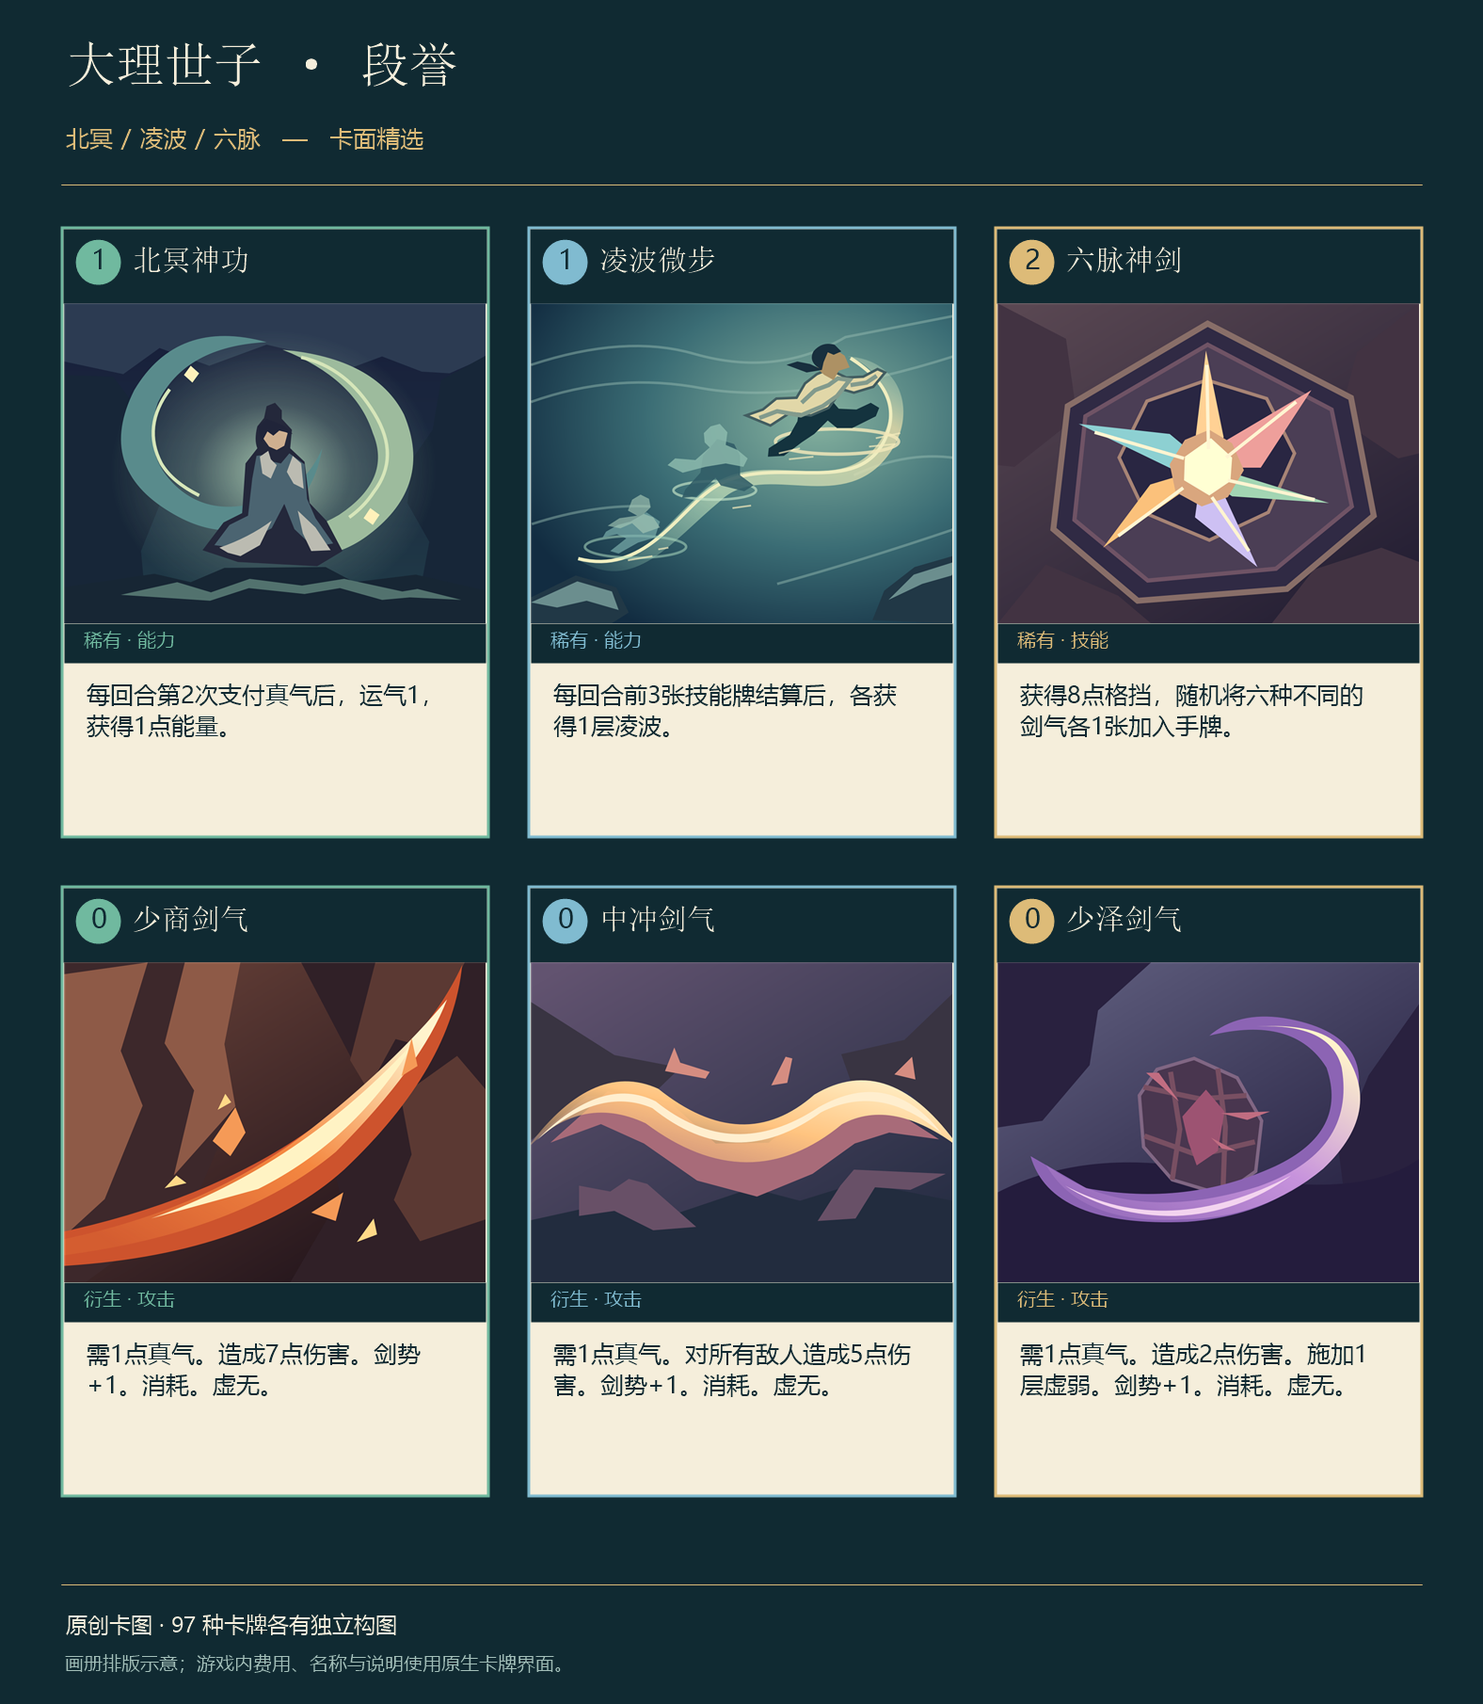
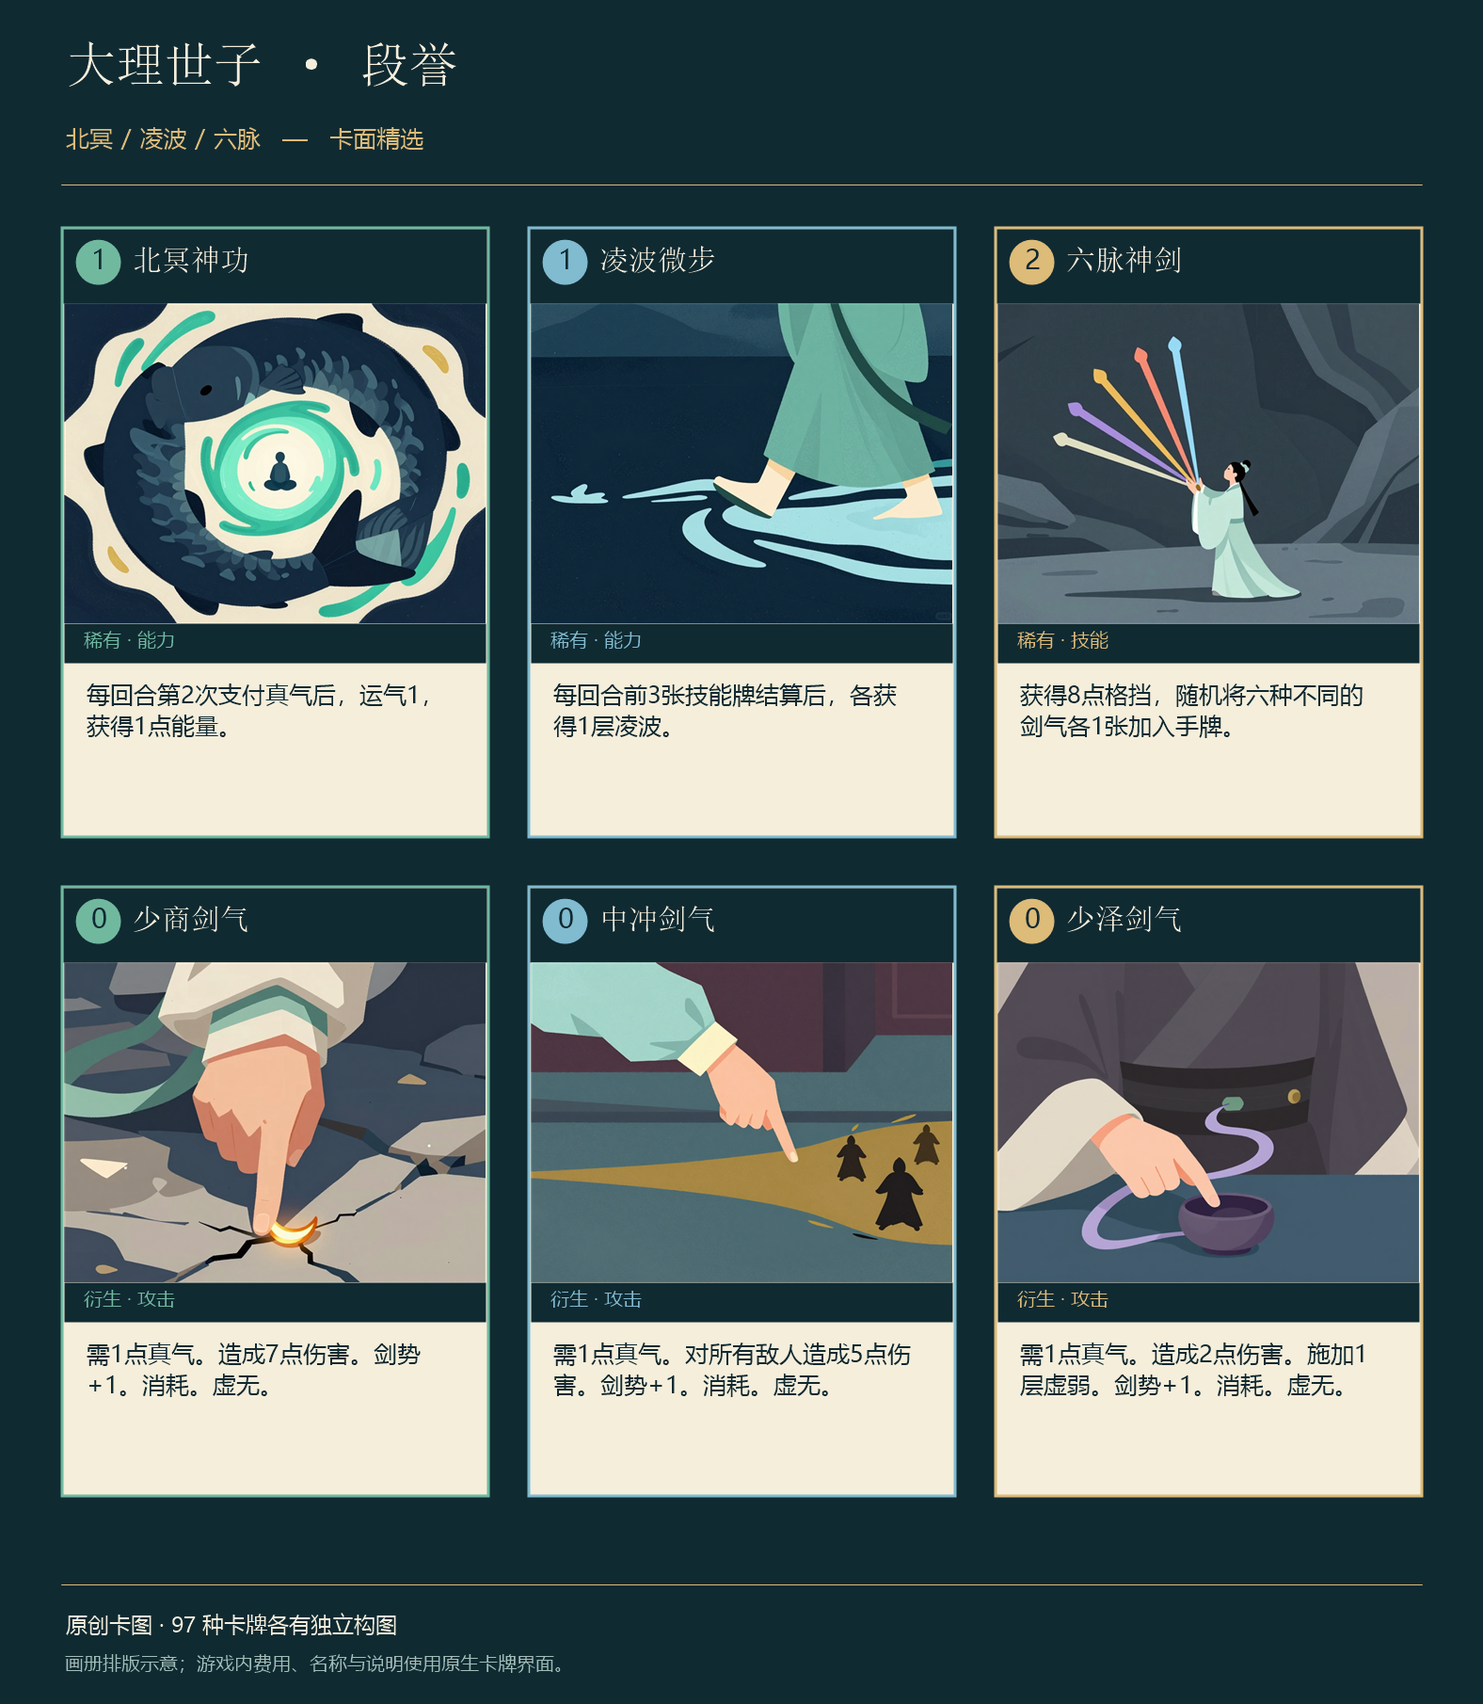
Redraw Duan Yu cards and cover in v0.5.32

Changed region(s): [[0.0311, 0.5569, 0.9638, 0.7735], [0.0311, 0.1547, 0.9638, 0.3713]]

diff --git a/src/DuanYu/Assets/DuanYuAssets.cs b/src/DuanYu/Assets/DuanYuAssets.cs
@@ -11,6 +11,7 @@ public static class DuanYuAssets
     private const string CacheRoot = "user://cqbzly.duanyu/assets-v2";
     private static readonly object AssetLock = new();
     private static readonly Dictionary<string, string> Paths = new(StringComparer.Ordinal);
+    private static readonly Dictionary<string, string> CardPaths = new(StringComparer.Ordinal);
     private static bool _initialized;
 
     public static string CharacterTexture => ImagePath("character", DuanYuArt.Character());
@@ -55,7 +56,34 @@ public static class DuanYuAssets
         }
     }
 
-    public static string CardPortrait(string designId) => ImagePath("card-" + SafeKey(designId), DuanYuArt.Card(designId));
+    public static string CardPortrait(string designId)
+    {
+        lock (AssetLock)
+        {
+            if (CardPaths.TryGetValue(designId, out string? path)) return path;
+
+            string key = "card-" + SafeKey(designId);
+            using Stream? portrait = OpenEmbeddedCardPortrait(designId);
+            if (portrait is null)
+            {
+                path = ImagePath(key, DuanYuArt.Card(designId));
+            }
+            else
+            {
+                using var buffer = new MemoryStream();
+                portrait.CopyTo(buffer);
+                byte[] png = buffer.ToArray();
+                path = ImagePath(key, png, image => image.LoadPngFromBuffer(png));
+            }
+
+            CardPaths[designId] = path;
+            return path;
+        }
+    }
+
+    internal static Stream? OpenEmbeddedCardPortrait(string designId) =>
+        typeof(DuanYuAssets).Assembly.GetManifestResourceStream($"DuanYu.CardPortraits.{designId}.png");
+
     public static string PowerIcon(string key) => ImagePath("power-" + SafeKey(key), DuanYuArt.Symbol(key, 128));
     public static string RelicIcon(string key) => ImagePath("relic-" + SafeKey(key), DuanYuArt.Symbol(key, 128));
     public static string EventPortrait(string key) => ImagePath("event-" + SafeKey(key), DuanYuArt.Event(key));
@@ -63,9 +91,12 @@ public static class DuanYuAssets
     public static Texture2D Texture(string path) => ResourceLoader.Load<CompressedTexture2D>(path)
         ?? throw new InvalidOperationException($"Duan Yu texture did not load: {path}");
 
-    private static string ImagePath(string key, string svg)
+    private static string ImagePath(string key, string svg) =>
+        ImagePath(key, Encoding.UTF8.GetBytes(svg), image => image.LoadSvgFromString(svg));
+
+    private static string ImagePath(string key, byte[] content, Func<Image, Error> loadImage)
     {
-        string digest = Convert.ToHexString(SHA256.HashData(Encoding.UTF8.GetBytes(svg)))[..12].ToLowerInvariant();
+        string digest = Convert.ToHexString(SHA256.HashData(content))[..12].ToLowerInvariant();
         string filename = key + "-" + digest + ".ctex";
         lock (AssetLock)
         {
@@ -76,7 +107,7 @@ public static class DuanYuAssets
             if (!File.Exists(absolutePath))
             {
                 using var image = new Image();
-                Error result = image.LoadSvgFromString(svg);
+                Error result = loadImage(image);
                 if (result != Error.Ok) throw new InvalidOperationException($"Unable to render {key}: {result}");
                 image.Convert(Image.Format.Rgba8);
                 WriteCompressedTexture(absolutePath, image);

diff --git a/tests/AssetSmoke/ExportGallery.cs b/tests/AssetSmoke/ExportGallery.cs
@@ -15,22 +15,43 @@ internal static class ExportGallery
         var outputDirectory = Path.GetFullPath(arguments[flagIndex + 1]);
         Directory.CreateDirectory(outputDirectory);
         var portraits = new HashSet<string>(StringComparer.Ordinal);
+        int embeddedCount = 0;
         foreach (var (prefix, count) in new[] { ("B", 5), ("C", 23), ("U", 38), ("R", 22), ("A", 1), ("T", 6), ("S", 2) })
         {
             for (var number = 1; number <= count; number++)
             {
                 var designId = $"DY_{prefix}{number:00}";
-                var source = DuanYuArt.Card(designId);
-                var digest = Convert.ToHexString(SHA256.HashData(Encoding.UTF8.GetBytes(source)));
-                if (!portraits.Add(digest)) throw new InvalidOperationException("Duplicate card artwork: " + designId);
-                File.WriteAllText(Path.Combine(outputDirectory, designId + ".svg"), source, new UTF8Encoding(false));
                 using var image = DuanYuAssets.Texture(DuanYuAssets.CardPortrait(designId)).GetImage();
                 if (image.GetWidth() != 1000 || image.GetHeight() != 760)
                     throw new InvalidOperationException("Incorrect card portrait dimensions: " + designId);
+                byte[] pixels = image.GetData();
+                if (!portraits.Add(Convert.ToHexString(SHA256.HashData(pixels))))
+                    throw new InvalidOperationException("Duplicate card artwork: " + designId);
+
+                string svgPath = Path.Combine(outputDirectory, designId + ".svg");
+                using Stream? embedded = DuanYuAssets.OpenEmbeddedCardPortrait(designId);
+                if (embedded is null)
+                {
+                    File.WriteAllText(svgPath, DuanYuArt.Card(designId), new UTF8Encoding(false));
+                }
+                else
+                {
+                    using var buffer = new MemoryStream();
+                    embedded.CopyTo(buffer);
+                    using var source = new Image();
+                    if (source.LoadPngFromBuffer(buffer.ToArray()) != Error.Ok)
+                        throw new InvalidOperationException("Invalid embedded card portrait: " + designId);
+                    source.Convert(Image.Format.Rgba8);
+                    if (!pixels.AsSpan().SequenceEqual(source.GetData()))
+                        throw new InvalidOperationException("Loaded texture differs from embedded portrait: " + designId);
+                    File.Delete(svgPath);
+                    embeddedCount++;
+                }
+
                 if (image.SavePng(Path.Combine(outputDirectory, designId + ".png")) != Error.Ok)
                     throw new IOException("Could not export card artwork: " + designId);
             }
         }
-        GD.Print($"ART_EXPORT_OK: {portraits.Count} distinct portraits exported to {outputDirectory}");
+        GD.Print($"ART_EXPORT_OK: {portraits.Count} distinct portraits ({embeddedCount} embedded PNG) exported to {outputDirectory}");
     }
 }

diff --git a/docs/card-art.md b/docs/card-art.md
@@ -1,24 +1,24 @@
 # 段誉卡面设计
 
-v0.5.30 重画 96 张卡图，先古牌「六脉真传」使用古碑插画。卡图为 1000 × 760 像素，使用 500 × 380 设计坐标。游戏运行时将内置 SVG 绘制成缓存纹理。
+段誉的卡图参考《杀戮尖塔 2》的手牌可读性，以旧版段誉卡面的墨青底色、平涂色面和硬边阴影为画风参考。每张插画突出一个动作或物件，将发力点放在画面中下部，避开游戏标题带。
 
 ## 视觉规则
 
-- 少商剑气劈岩，商阳剑气破甲，中冲剑气扫过整片场地，关冲剑气折面挡矢。
-- 凌波初步从靴尖点水起势，掠影步穿过竹林，倒踩七星沿屋脊留下落点。
-- 逆脉强攻用逆行裂电表现强攻的代价，内力震荡则让护甲从内部炸开。
+- 青衫、宽袖和束发保留书生轮廓。指劲、衣袖和水纹承担动作表现。
+- 少商剑气用火色弧光劈岩，商阳剑气用细束击中圆靶，中冲剑气以横向光浪表现群攻，关冲剑气以翠绿菱形气劲挡矢。
+- 凌波牌用足尖、落点和衣摆表现步法。北冥牌通过回流、凝聚和向外迸发的气流表现不同效果。
 
-每种卡牌都有独立构图，升级版沿用该牌插画。插画由 `src/DuanYu/Assets/DuanYuCardArt.cs` 按卡牌编号加载。
+每种卡牌都有独立构图，升级版沿用同一张插画。Z-Image Turbo 根据逐张撰写的构图描述和旧版「凌波初步」卡面的风格参考生成插画。选图和裁切后的 1000 × 760 像素 PNG 保存在 `assets/card-portraits/`，随 DLL 一同加载。缺少对应 PNG 时，游戏读取 `src/DuanYu/Assets/DuanYuCardArt.cs` 中的 SVG。
 
 ## 导出与验证
 
 ```powershell
-.\scripts\test-assets.ps1 -ExportArtPath artifacts/card-art
-.\scripts\render-promo.ps1
+.\scripts\test-assets.ps1 -GodotPath 'D:\tools\godot\Godot_v4.5.1-stable_mono_win64_console.exe' -ExportArtPath 'D:\duanyu-card-export'
+.\scripts\render-promo.ps1 -ArtPath 'D:\duanyu-card-export'
 ```
 
-第一条命令加载纹理和场景，并导出 PNG 与 SVG，验证尺寸及源图唯一性。第二条命令使用导出的游戏卡图生成精选画册 `assets/card-gallery.png`，并检查文字区域溢出。
+将 `-GodotPath` 指向本机的 Godot 4.5.1 .NET 控制台程序。第一条命令加载纹理和场景，验证实际卡图的尺寸、像素是否重复以及内嵌 PNG 与游戏纹理是否一致。所有卡图都会导出为 PNG，使用 SVG 的卡图还会导出源图。第二条命令使用同一目录下的游戏卡图生成精选画册 `assets/card-gallery.png`，并检查文字区域溢出。
 
 ![卡面精选](../assets/card-gallery.png)
 
-画册使用项目绘制的游戏卡图和宣传卡框，游戏内使用原生卡框。README 横幅和工坊方形封面取景自南宋马麟的《Landscape with Flying Geese》，采用书法题字和朱印排版。两张封面独立维护。[原作与 CC0 授权](https://www.clevelandart.org/art/1952.285)
+画册使用游戏卡图和宣传卡框，游戏内使用原生卡框。README 横幅和工坊方形封面以段誉的青衫背影为主体，使用同一模型图生图，分别排版。

diff --git a/docs/installation.md b/docs/installation.md
@@ -1,6 +1,6 @@
 # 段誉模组安装说明
 
-当前版本为 v0.5.31。目标环境为 Windows《杀戮尖塔2》v0.113.1 public-beta，依赖 BaseLib 3.4.8。[GitHub Releases](https://github.com/cqbzly/sts2-duan-yu/releases/latest) · [卡牌图鉴](cards.md)
+当前版本为 v0.5.32。目标环境为 Windows《杀戮尖塔2》v0.113.1 public-beta，依赖 BaseLib 3.4.8。[GitHub Releases](https://github.com/cqbzly/sts2-duan-yu/releases/latest) · [卡牌图鉴](cards.md)
 
 ## 玩家安装
 
@@ -8,7 +8,7 @@
 2. 订阅[大理世子·段誉](https://steamcommunity.com/sharedfiles/filedetails/?id=3841781260)。手动安装时，关闭游戏，从 [Release](https://github.com/cqbzly/sts2-duan-yu/releases/latest) 下载 ZIP，将其中的 `DuanYu` 文件夹解压到游戏的 `mods` 目录。该文件夹应直接包含 `CQBZLY_DUAN_YU.dll` 和 `DuanYu.json`。
 3. 启动游戏，在模组列表中启用“大理世子·段誉”，按提示重启，再新开一局选择段誉。
 
-玩家不需要单独安装 .NET SDK 或 Godot 编辑器。图片、图标与场景由DLL在本机生成，缓存在游戏用户目录 `cqbzly.duanyu` 下；不会从互联网下载图片。
+玩家可直接使用打包好的模组。卡图随 DLL 提供，游戏在本机加载卡图、图标和场景，并将资源缓存在游戏用户目录 `cqbzly.duanyu` 下。
 
 多人游戏的所有参加者需要相同游戏分支、相同版本的段誉与依赖，以及一致的影响玩法的模组列表。玩家状态隔离已实现，但完整远程多人会话尚需验证。
 
@@ -39,9 +39,9 @@
 - 本机历史记录中 SavesMerger 有独立于本模组的初始化异常。遇到加载错误时，先只启用 BaseLib、Compatibility Helper、段誉进行比较。
 - 日志通常位于 `%APPDATA%\SlayTheSpire2\logs\godot.log`。报告问题时提供游戏版本、段誉版本、模组列表、复现操作和相关错误片段。
 
-## v0.5.31 发布记录
+## v0.5.32 发布记录
 
-本版调整步法、状态联动、回合开始收益和多人支援牌。[完整更新记录](releases/v0.5.31.md)
+本版重绘 97 张卡牌插画，封面换为段誉的青衫背影。[完整更新记录](releases/v0.5.32.md)
 
 尘封魔典授予段誉专属先古牌「六脉真传+」。已领取空魔典的旧局，更新并继续游戏时补发一次。订阅玩家退出游戏，等 Steam 完成下载后重新启动即可。
 

diff --git a/README.md b/README.md
@@ -1,10 +1,10 @@
 # 大理世子 · 段誉
 
-![大理世子·段誉水墨封面，取景自南宋马麟的山水画](assets/duanyu-ink-banner.png)
+![段誉身穿青衫，背对观者望向湖山](assets/duanyu-ink-banner.png)
 
 《杀戮尖塔2》的段誉同人角色模组。攒真气蓄势，以凌波卸去连击，再用六脉剑气打开局面。包含 **97 种卡牌、9 件遗物和 2 个专属事件**。
 
-**公开发行版 v0.5.31** · 《杀戮尖塔2》v0.113.1 public-beta · BaseLib 3.4.8
+**公开发行版 v0.5.32** · 《杀戮尖塔2》v0.113.1 public-beta · BaseLib 3.4.8
 
 [Steam 创意工坊](https://steamcommunity.com/sharedfiles/filedetails/?id=3841781260) · [GitHub 下载](https://github.com/cqbzly/sts2-duan-yu/releases/latest) · [安装说明](docs/installation.md)
 
@@ -23,7 +23,7 @@
 
 ## 版本
 
-重做踏虚而行、游身、以退为进与蓄势一击。读书明理用气滞换零费抽牌，真气护体按当前真气提供格挡，守拙在回合开始运气2。[v0.5.31 更新记录](docs/releases/v0.5.31.md)
+全套 97 张卡面重绘。GitHub 横幅和工坊封面换为段誉的青衫背影。[v0.5.32 更新记录](docs/releases/v0.5.32.md)
 
 ## 从源码构建
 
@@ -40,4 +40,4 @@
 
 ## 作品来源
 
-角色与武学源于金庸《天龙八部》。本项目是玩家制作的同人模组。游戏内卡面为项目原创程序化美术，封面取景自南宋马麟的《Landscape with Flying Geese》，由克利夫兰艺术博物馆按 CC0 开放。[卡面精选](docs/card-art.md) · [封面原作与授权](https://www.clevelandart.org/art/1952.285)
+角色与武学源于金庸《天龙八部》。本项目是玩家制作的同人模组。游戏卡图以 Z-Image Turbo 生成并逐张选图和裁切，封面取景自南宋马麟的《Landscape with Flying Geese》，由克利夫兰艺术博物馆按 CC0 开放。[卡面精选](docs/card-art.md) · [封面原作与授权](https://www.clevelandart.org/art/1952.285)

diff --git a/docs/cheat-sheet.md b/docs/cheat-sheet.md
@@ -1,6 +1,6 @@
 # 段誉 · A10 实战小抄
 
-本文对应 v0.5.31。初始牌组有 4 张打击、4 张防御、北冥初窥与无意一指。真气无上限，跨回合保留，打牌前须付足真气。每张剑气通常需 1 点真气，经脉归一生成的剑气免费。六脉齐发用尽真气，每花 1 点就对同一目标造成一段 6/8 点伤害，各段独立应用增伤。每层凌波使每段可格挡伤害减 1，层数到自己的下回合开始时清除。风过无痕每新增 1 层凌波提供 5/7 格挡。剑势上限为 8，每回合开始清零。头环开战运气 5，自己的每个回合结束时运气 1。[卡牌图鉴](cards.md) · [v0.5.31 更新记录](releases/v0.5.31.md)
+本文对应 v0.5.32。初始牌组有 4 张打击、4 张防御、北冥初窥与无意一指。真气无上限，跨回合保留，打牌前须付足真气。每张剑气通常需 1 点真气，经脉归一生成的剑气免费。六脉齐发用尽真气，每花 1 点就对同一目标造成一段 6/8 点伤害，各段独立应用增伤。每层凌波使每段可格挡伤害减 1，层数到自己的下回合开始时清除。风过无痕每新增 1 层凌波提供 5/7 格挡。剑势上限为 8，每回合开始清零。头环开战运气 5，自己的每个回合结束时运气 1。[卡牌图鉴](cards.md) · [v0.5.32 更新记录](releases/v0.5.32.md)
 
 奥罗巴斯的升级初始遗物选项现在将玉佩换成段誉专属头环，不会换成原版无效果头环。升级后每场战斗开局5气，每个自己的回合结束补1气，超过9气仍正常获得。
 

diff --git a/docs/builds-and-balance.md b/docs/builds-and-balance.md
@@ -1,6 +1,6 @@
 # 段誉：构筑指南与平衡验证
 
-版本 v0.5.31。常规奖励池共83张，普通23张、罕见38张、稀有22张。另有5张基础、1张先古、6张衍生和2张状态牌。本页的 A10 通关示例来自旧版本单个种子。[卡牌图鉴](cards.md) · [A10 实战小抄](cheat-sheet.md)
+版本 v0.5.32。常规奖励池共83张，普通23张、罕见38张、稀有22张。另有5张基础、1张先古、6张衍生和2张状态牌。本页的 A10 通关示例来自旧版本单个种子。[卡牌图鉴](cards.md) · [A10 实战小抄](cheat-sheet.md)
 
 ## 基础循环
 

diff --git a/docs/mechanics.md b/docs/mechanics.md
@@ -1,6 +1,6 @@
 # 段誉：核心机制与结算规范
 
-本文对应 v0.5.31。[卡牌图鉴](cards.md) · [实战小抄](cheat-sheet.md) · [GitHub Releases](https://github.com/cqbzly/sts2-duan-yu/releases/latest)
+本文对应 v0.5.32。[卡牌图鉴](cards.md) · [实战小抄](cheat-sheet.md) · [GitHub Releases](https://github.com/cqbzly/sts2-duan-yu/releases/latest)
 
 卡面正文省略“需N点真气”前缀，由专属费用标记与真气悬浮说明显示费用；data与文档图鉴保留完整规则。显示精简不改变整张牌出牌前足额支付的要求。
 

diff --git a/docs/cards.md b/docs/cards.md
@@ -1,6 +1,6 @@
 # 大理世子·段誉 · 完整卡牌图鉴
 
-设计版本：0.5.31。共 97 种卡牌，其中 83 种进入角色常规卡池。
+设计版本：0.5.32。共 97 种卡牌，其中 83 种进入角色常规卡池。
 
 本文由 [data/cards.json](../data/cards.json) 自动生成。修改数据后运行 `node scripts/build-cards.mjs`；运行 `node scripts/validate.mjs` 检查数据及文档一致性。
 

diff --git a/docs/releases/v0.5.32.md b/docs/releases/v0.5.32.md
@@ -1,0 +1,5 @@
+# v0.5.32 卡面与封面更新
+
+- 重绘段誉全套 97 张卡牌插画。青衫宽袖、指尖剑气与足下水纹分别突出书生身形、六脉招式与凌波步法。
+- GitHub 横幅和 Steam 创意工坊封面换为段誉的青衫背影，延续卡面的哑光平涂和硬边阴影。
+- 适用于《杀戮尖塔 2》v0.113.1 public-beta，需要 BaseLib 3.4.8。
